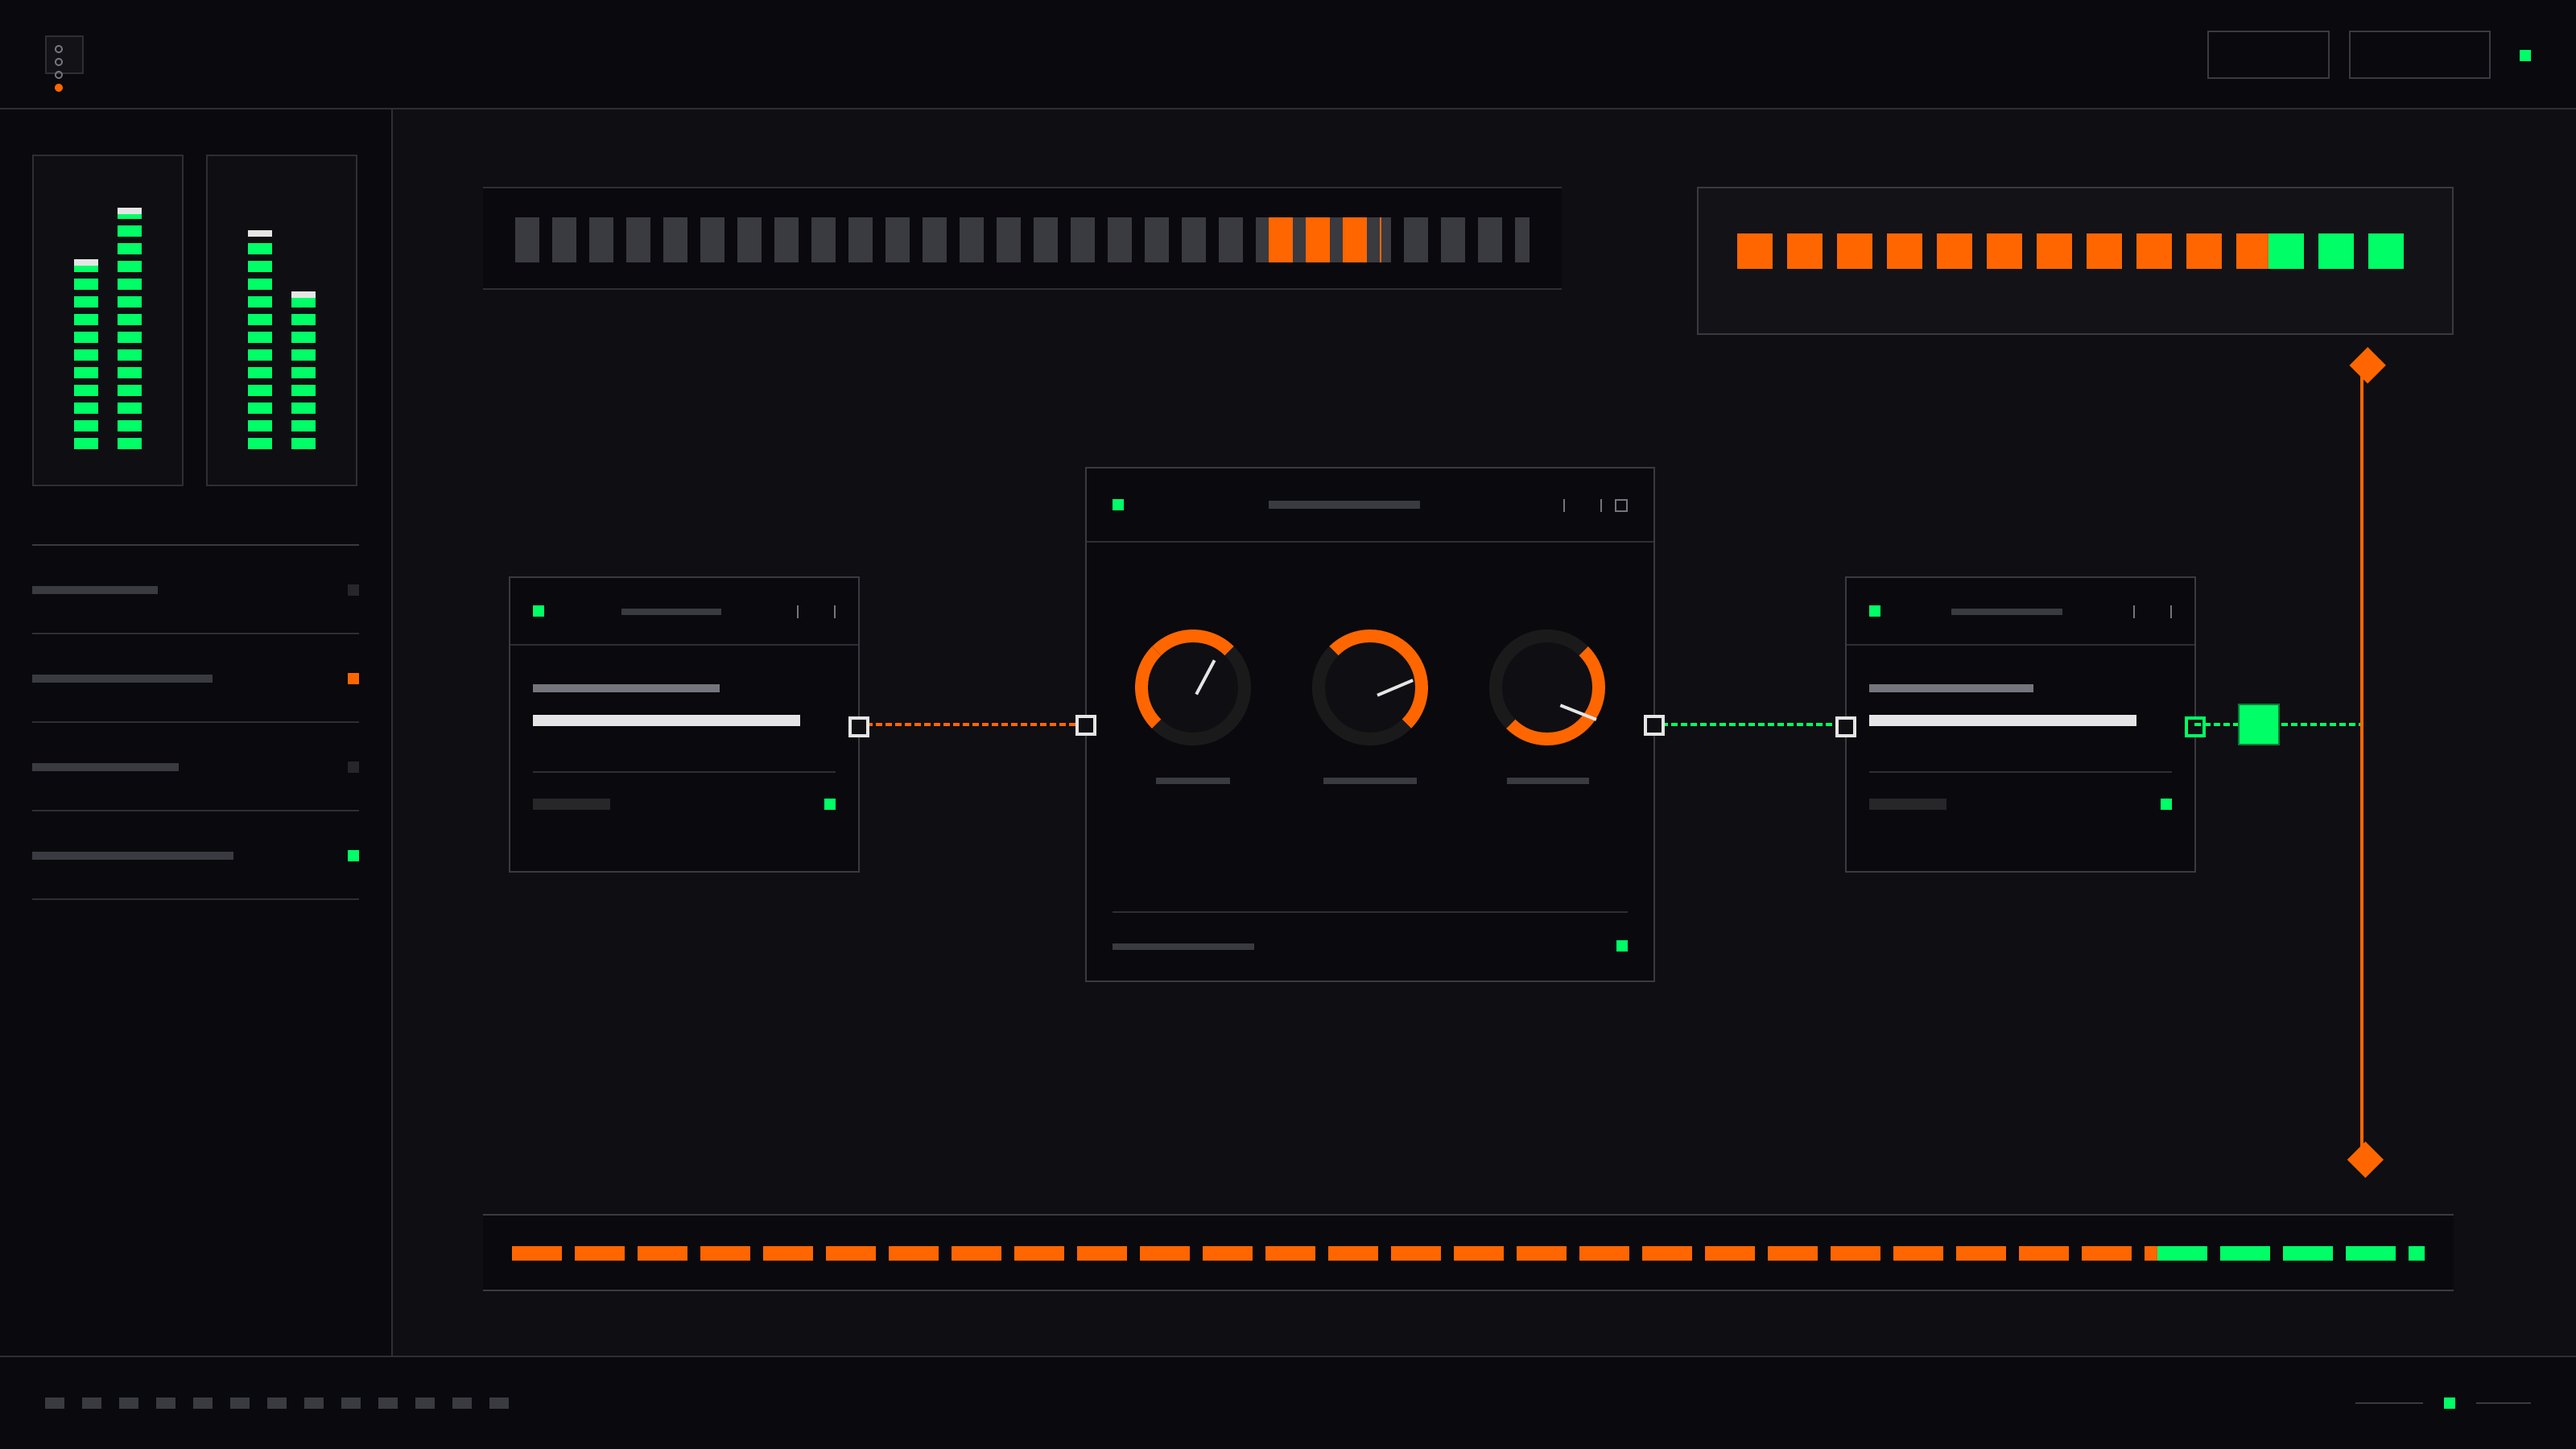
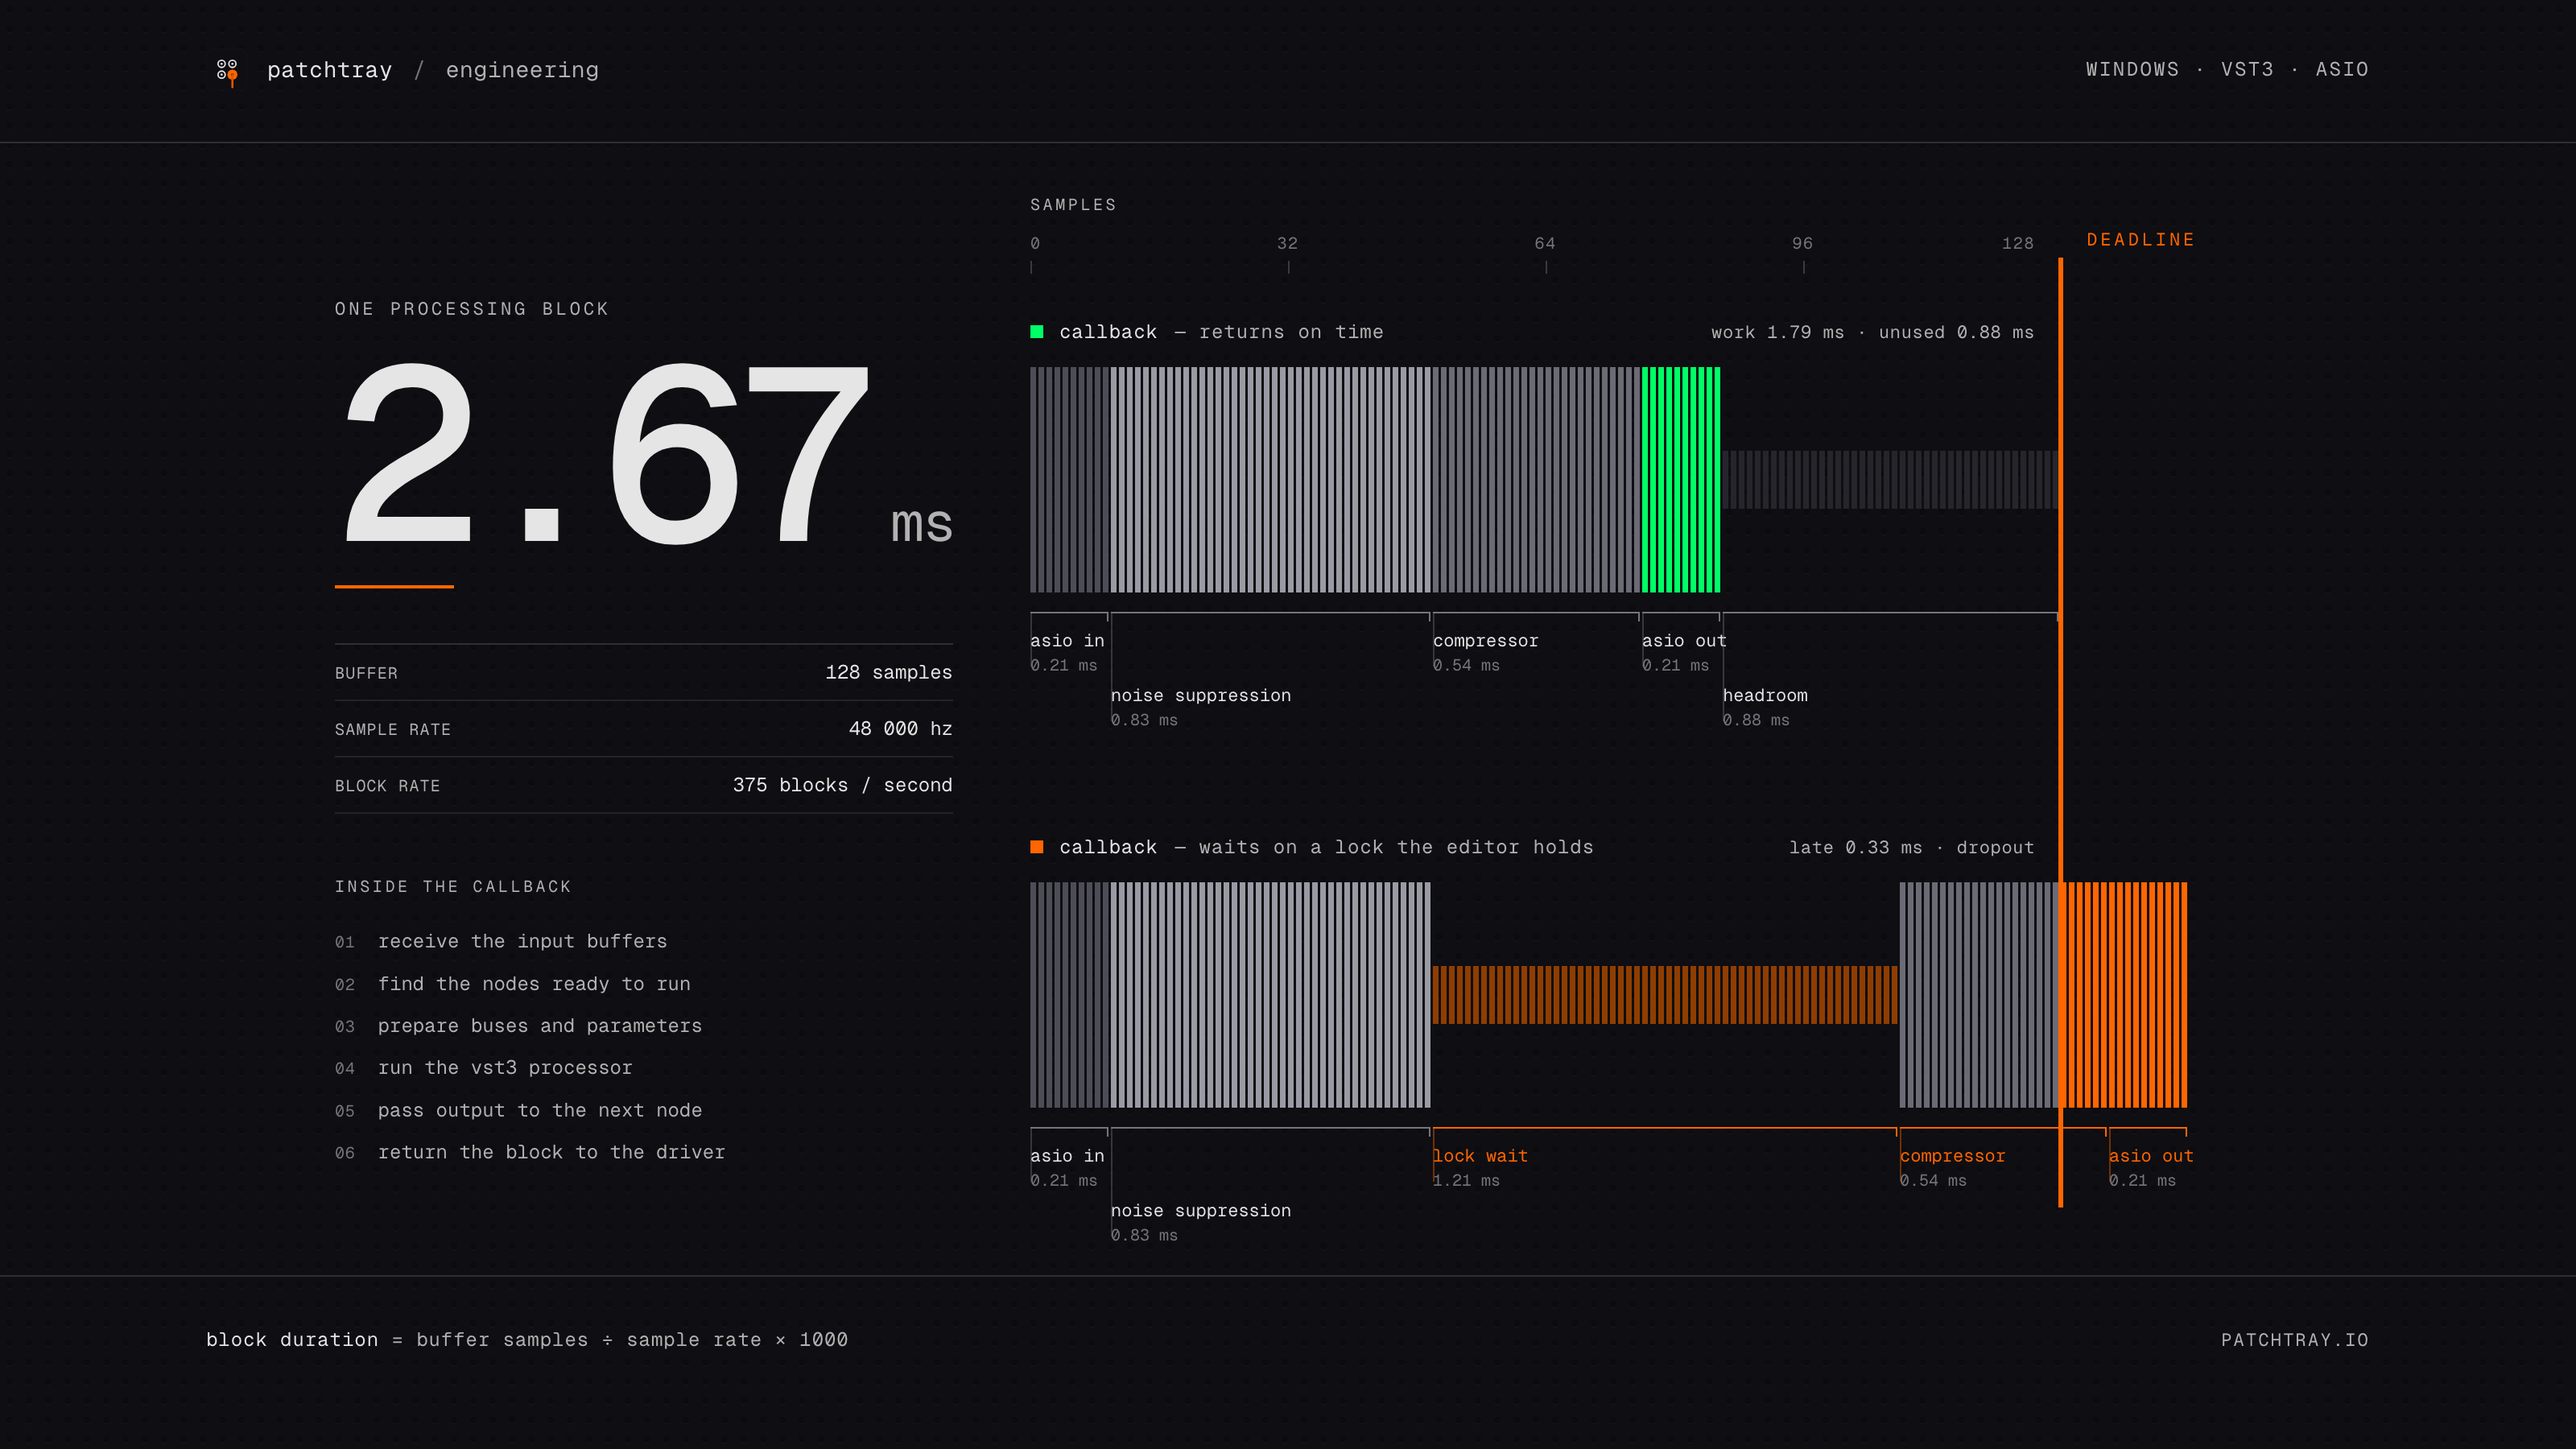
fix: redraw the buffer-deadline hero as a sample-block timeline
The previous artwork was a generic route mockup with placeholder bars that
did not depict the article's subject.

The replacement draws one 128-sample block as discrete cells against a hard
2.67 ms deadline, with two callbacks across it: one returns with 0.88 ms of
headroom, one parks on a lock the editor holds and returns 0.33 ms late.

Rendered from HTML at 2x using the site's own tokens, so it composes at
3200x1800 and survives the 16/11 and 4/3 feature crops. Alt text updated
because the template also renders it as the visible figure caption.

diff --git a/content/blog/posts/inside-a-live-audio-buffer-deadline/index.md b/content/blog/posts/inside-a-live-audio-buffer-deadline/index.md
@@ -15,7 +15,7 @@ tags:
   - "audio latency"
 image:
   src: "./hero.png"
-  alt: "A PatchTray-style route connecting input, VST3 processing, and output nodes, completing before an orange audio-buffer deadline."
+  alt: "Two PatchTray processing callbacks across one 128-sample block: the first finishes with headroom before the orange 2.67 ms deadline, the second stalls on a lock and returns 0.33 ms late."
 status: "published"
 featured: true
 ---
